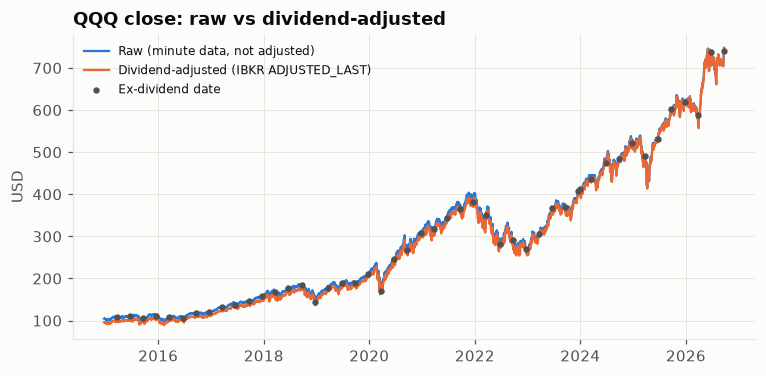
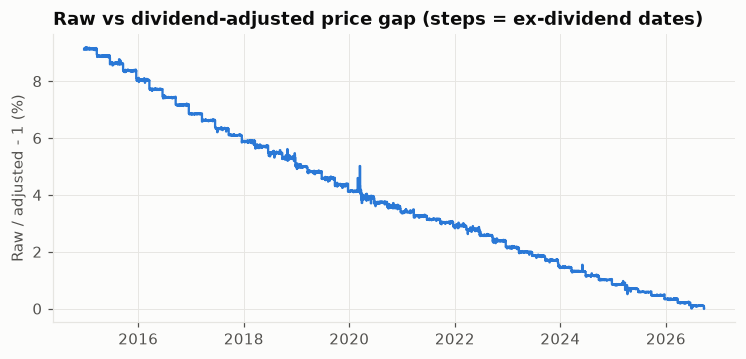
Regenerate week 1 report

diff --git a/qqq-ml/reports/week01_data_quality.md b/qqq-ml/reports/week01_data_quality.md
@@ -1,8 +1,9 @@
 # Week 1 資料品質報告
 
-產生時間：2026-09-23 11:23 ET　·　資料建置：2026-09-23T11:23
+產生時間：2026-09-23 11:47 ET　·　資料建置：2026-09-23T11:23
 
 資料來源：IBKR TWS API（`scripts/download_ibkr.py`）。清理程式：`src/data_loader.py`。
+人工檢視結論見 [`week01_review_notes.md`](week01_review_notes.md)。
 
 ## 1. 總覽
 
